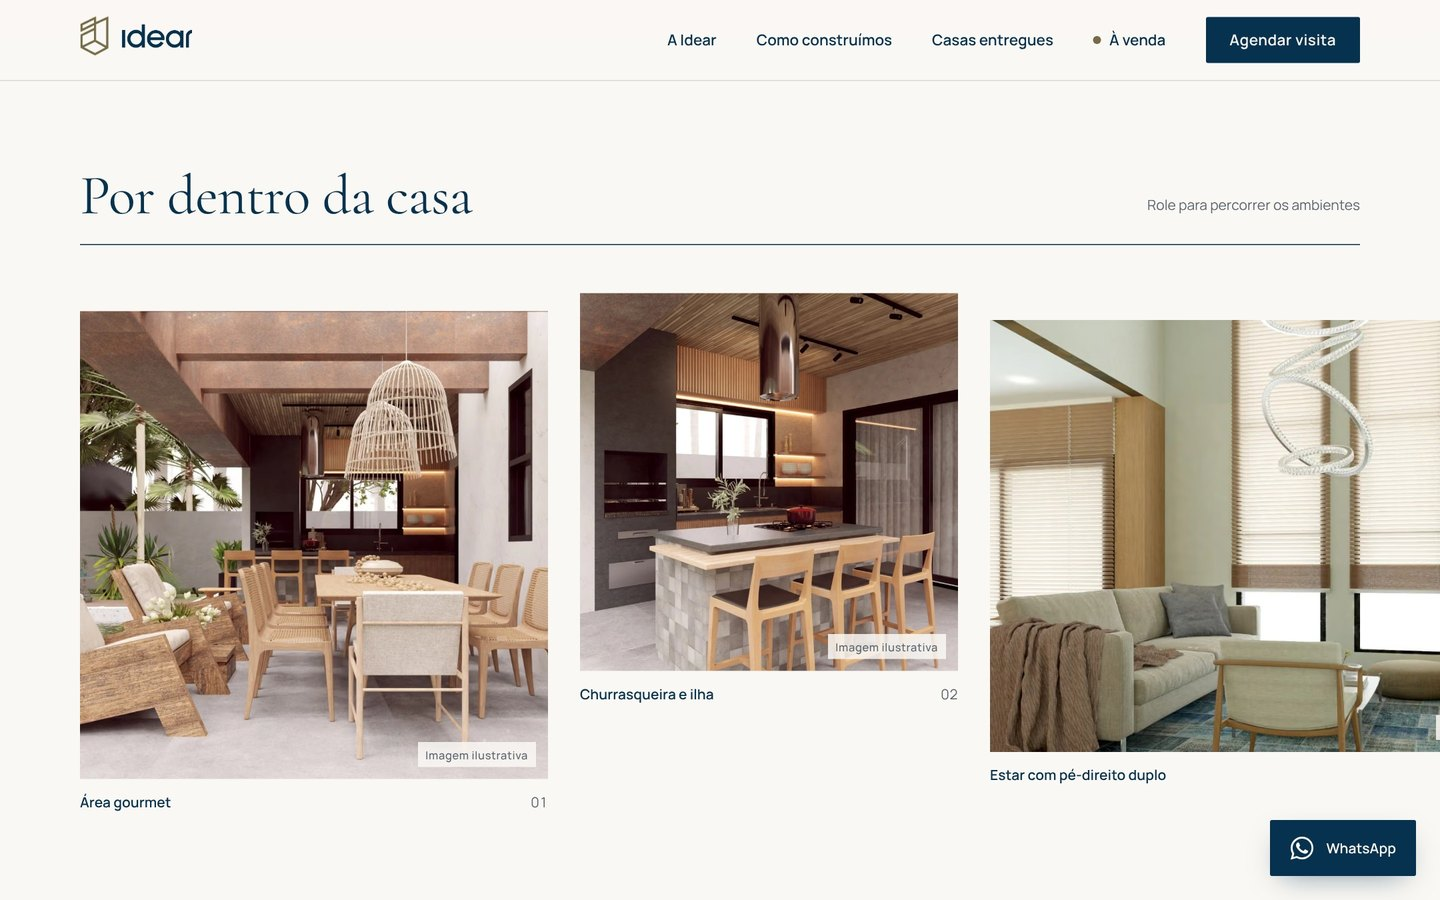
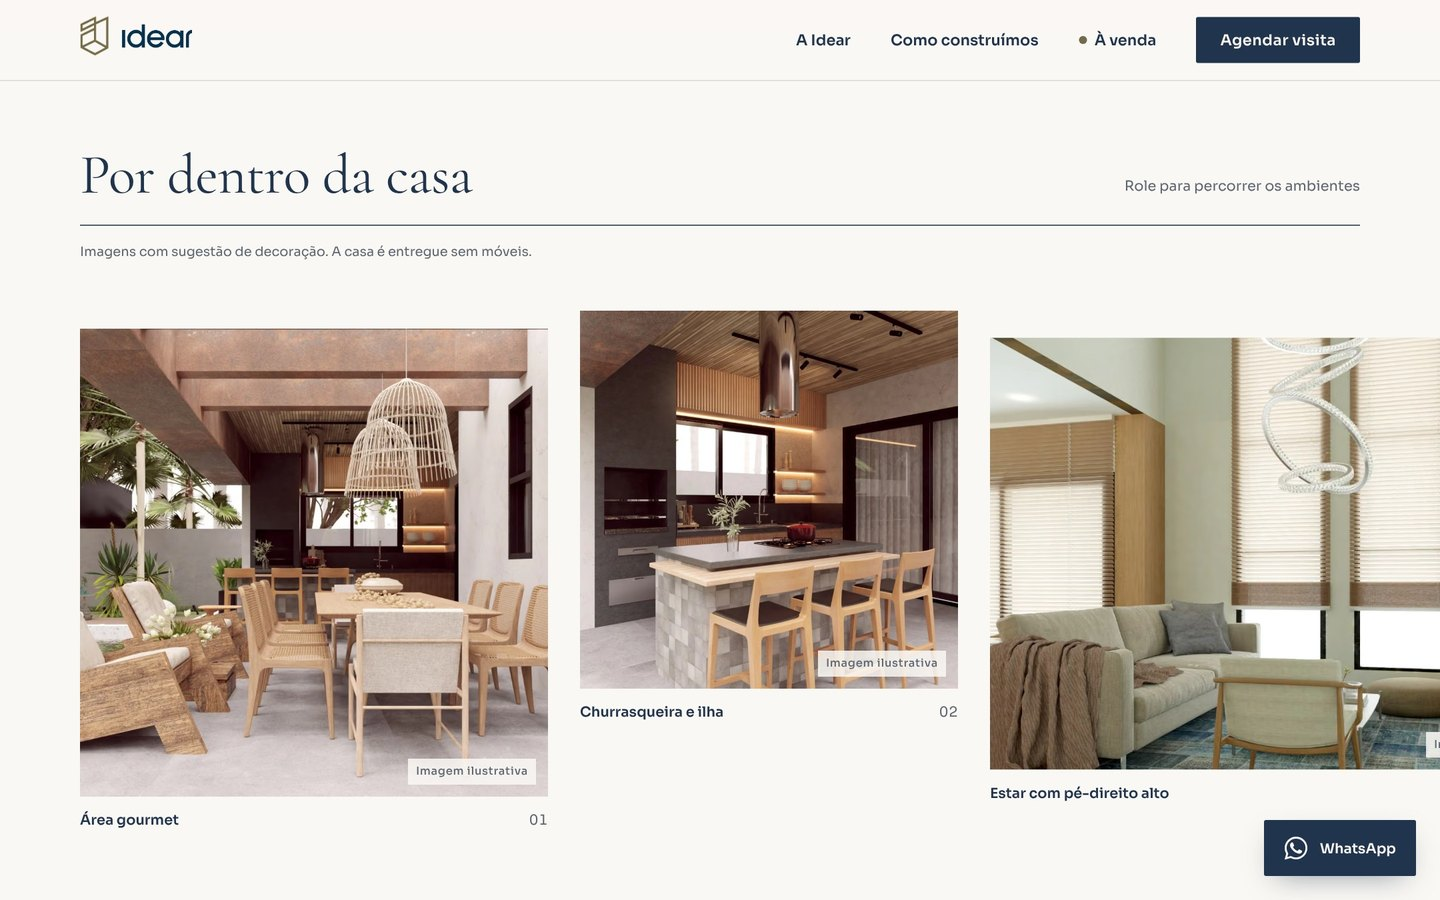
Idear Empreendimentos ganha o link do site no ar e capturas da versão final
Claude-Session: https://claude.ai/code/session_01P2gMEPFx4h5Snu2b9VrmuT

diff --git a/src/content/projects.ts b/src/content/projects.ts
@@ -4,7 +4,6 @@
 // A SURAMU saiu dos destaques e ficou sem link enquanto está em negociação; a Doce&Sabor entrou no lugar.
 // A Multsystems é o projeto mais recente (cliente real): abre os destaques e é o "Último no ar" do hero.
 // Depois vêm a Idear Empreendimentos, a Scarpetta Cucina (o site que substituiu o Linktree) e a Flanar Café.
-// A Idear fica sem link até o site ir ao ar com os dados reais (o endereço da Vercel ainda mostra a prévia).
 // A Samoa saiu dos destaques para manter seis cases e ficou em Mais trabalhos.
 
 export type ProjectKind = "real" | "concept";
@@ -13,7 +12,7 @@ export const projects = [
   // Cases em destaque, na ordem em que aparecem. Cada um tem a sua "sala" (cores da
   // própria marca) dentro da moldura do Senerine; ver .case[data-room] no CSS.
   { id: "multsystems", url: "https://multsystems.com.br", kind: "real", featured: true, year: 2026, stack: ["Next.js", "TypeScript", "Tailwind", "Zod"] },
-  { id: "idear", url: null, kind: "real", featured: true, year: 2026, stack: ["Next.js", "TypeScript", "Tailwind", "GSAP", "Lenis"] },
+  { id: "idear", url: "https://www.idearempreendimentos.com.br", kind: "real", featured: true, year: 2026, stack: ["Next.js", "TypeScript", "Tailwind", "GSAP", "Lenis"] },
   { id: "scarpetta", url: "https://scarpetta-ten.vercel.app", kind: "real", featured: true, year: 2026, stack: ["React", "TypeScript", "Vite", "Motion", "Lenis"] },
   { id: "flanar", url: "https://flanarcafe.vercel.app", kind: "concept", featured: true, year: 2026, stack: ["Next.js", "TypeScript", "Tailwind", "GSAP", "Lenis"] },
   { id: "vincenzo", url: "https://vicenzosaggio.vercel.app", kind: "concept", featured: true, year: 2026, stack: ["HTML", "CSS", "JavaScript", "Shopify"] },

diff --git a/CLAUDE.md b/CLAUDE.md
@@ -10,7 +10,7 @@ Portfólio comercial do Leonardo Senerine: o objetivo é **vender** (gerar conta
 - Nunca citar Itatiba nem outra cidade dele: ele atende qualquer lugar. Também não listar nichos no hero.
 - Texto sem travessões. Não inventar números, depoimentos, prazos ou clientes; só usar fatos que já estão no site ou nos estudos de caso.
 - O **convite de casamento é confidencial**: sem link em lugar nenhum (`url: null` em `src/content/projects.ts`), imagens sempre desfocadas (`public/work/convite/*-privado.jpg`). Nunca colocar o link de volta.
-- Projetos reais: Multsystems (último no ar, abre os destaques), Idear Empreendimentos (sem link até o site ir ao ar com os dados reais), Scarpetta Cucina, Doce&Sabor, Cantina Pôr do Sol, Gordinho Lanches, D'Conde Barbearia, convite. Propostas conceituais: Vincenzo Saggio, Flanar Café (em destaque, logo depois da Scarpetta), SURAMU, Samoa (em Mais trabalhos), Ponto Alto, Meraki.
+- Projetos reais: Multsystems (último no ar, abre os destaques), Idear Empreendimentos, Scarpetta Cucina, Doce&Sabor, Cantina Pôr do Sol, Gordinho Lanches, D'Conde Barbearia, convite. Propostas conceituais: Vincenzo Saggio, Flanar Café (em destaque, logo depois da Scarpetta), SURAMU, Samoa (em Mais trabalhos), Ponto Alto, Meraki.
 - A **SURAMU está em negociação**: fora dos cases em destaque (só em "Mais trabalhos" e no exemplo do processo), `url: null` e imagens desfocadas (`public/work/suramu/*-privado.*`). Não colocar o link nem as capturas originais de volta sem o Leonardo pedir.
 
 ## Regras de design
